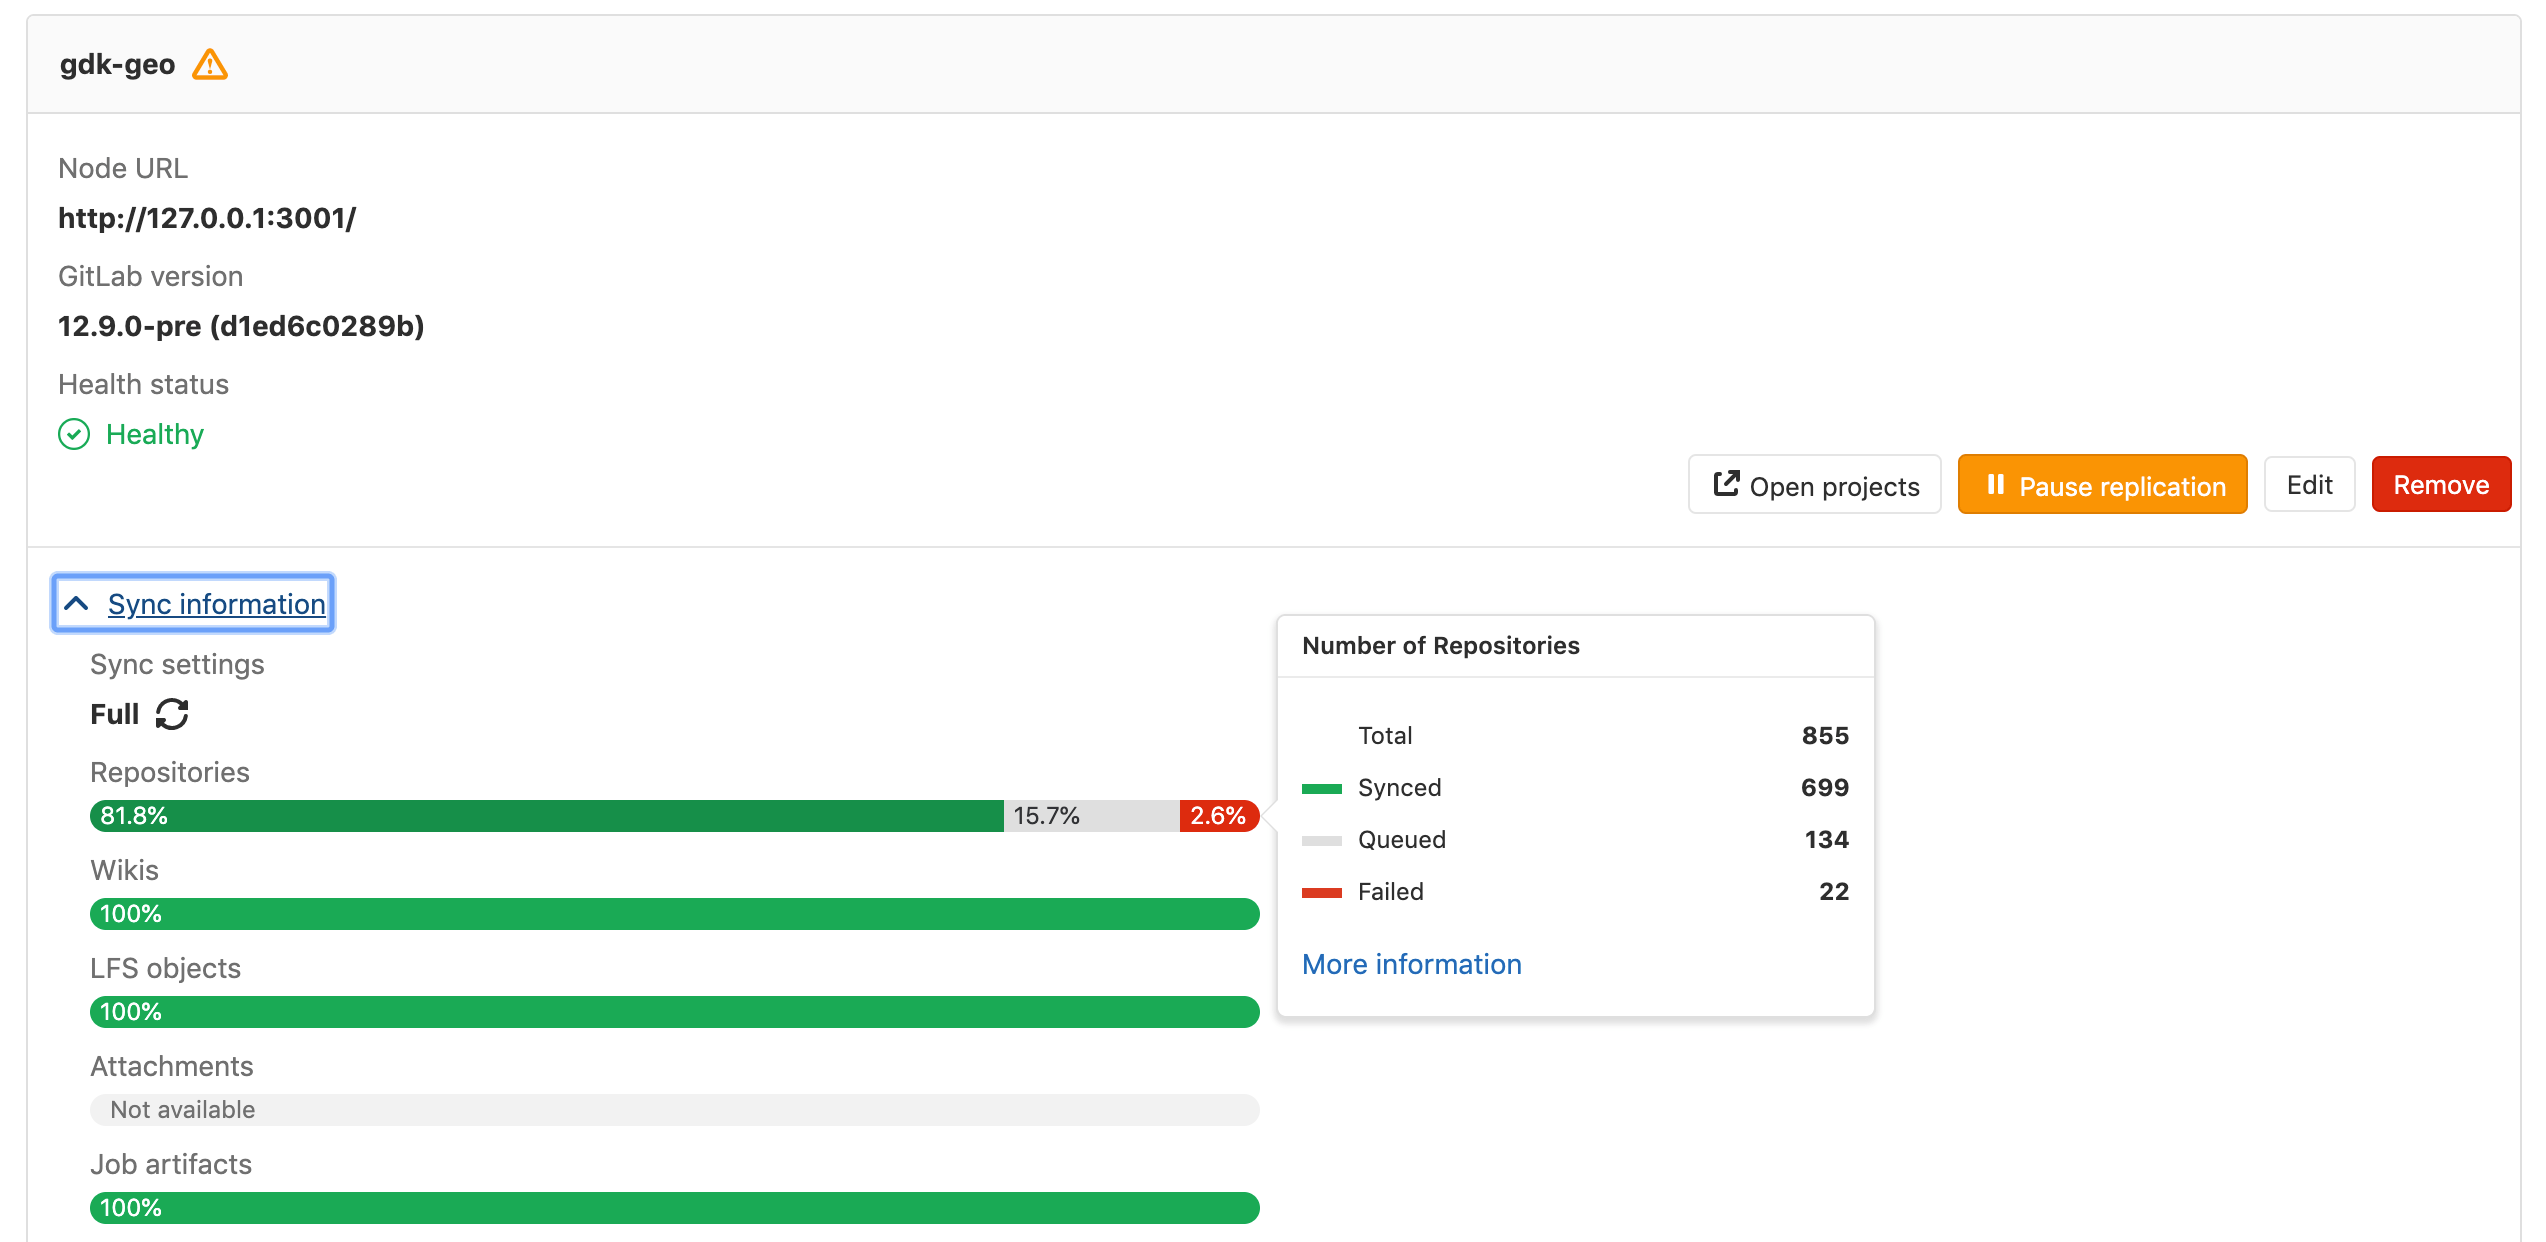
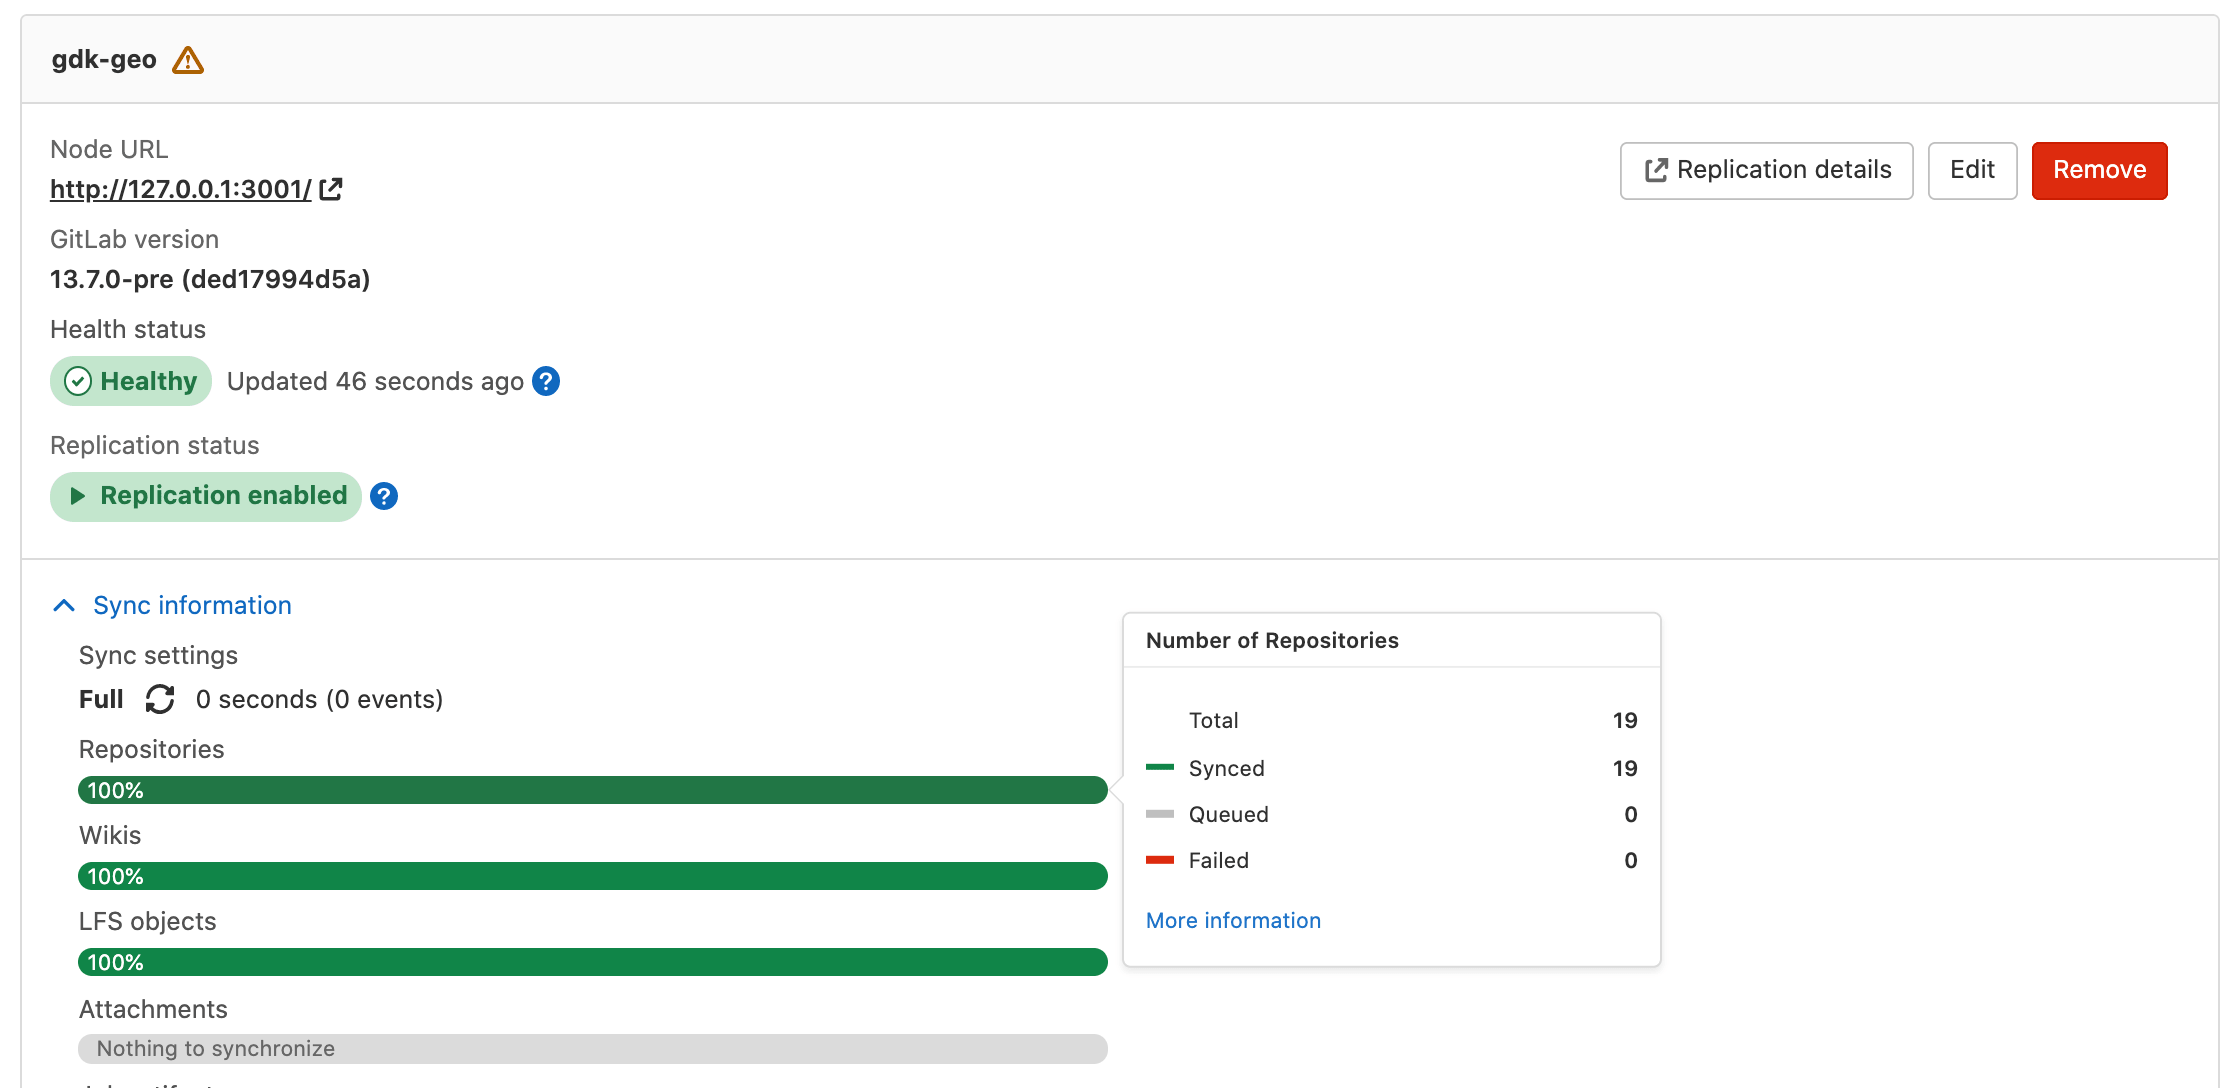
Update old images in Geo docs

diff --git a/doc/administration/geo/replication/object_storage.md b/doc/administration/geo/replication/object_storage.md
@@ -35,8 +35,8 @@ To enable GitLab replication, you must:
 
 1. Go to **Admin Area > Geo**.
 1. Press **Edit** on the **secondary** node.
-1. Enable the **Allow this secondary node to replicate content on Object Storage**
-   checkbox.
+1. In the **Synchronization Settings** section, find the **Allow this secondary node to replicate content on Object Storage**
+   checkbox to enable it.
 
 For LFS, follow the documentation to
 [set up LFS object storage](../../lfs/index.md#storing-lfs-objects-in-remote-object-storage).

diff --git a/doc/administration/geo/replication/troubleshooting.md b/doc/administration/geo/replication/troubleshooting.md
@@ -35,7 +35,7 @@ to help identify if something is wrong:
 - Is the node's secondary tracking database connected?
 - Is the node's secondary tracking database up-to-date?
 
-![Geo health check](img/geo_node_healthcheck.png)
+![Geo health check](img/geo_node_dashboard.png)
 
 For information on how to resolve common errors reported from the UI, see
 [Fixing Common Errors](#fixing-common-errors).
